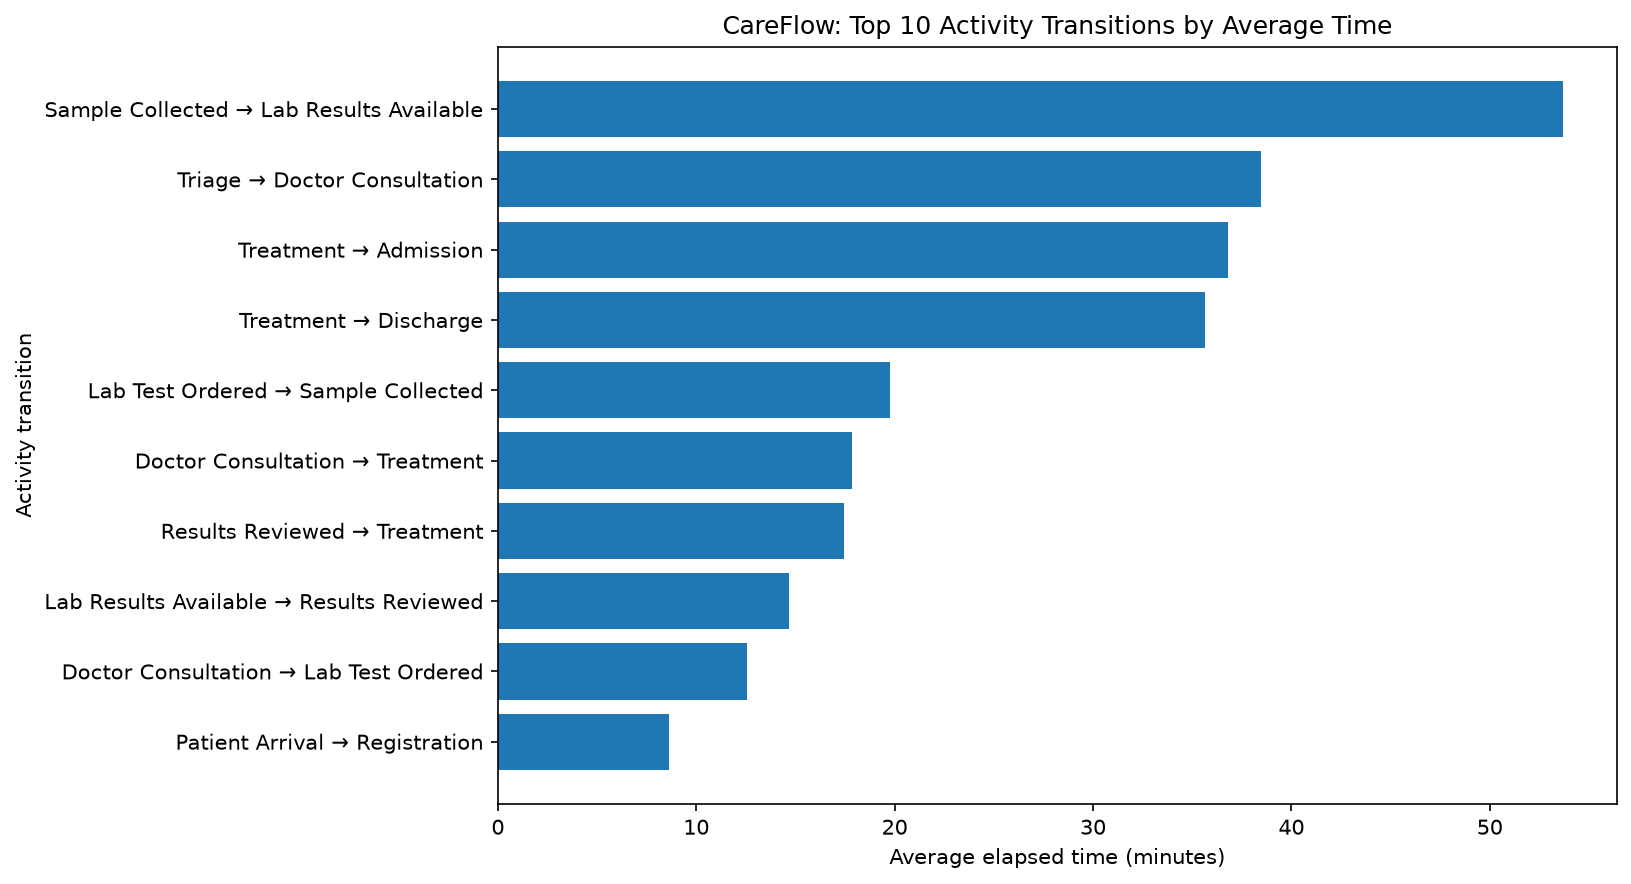
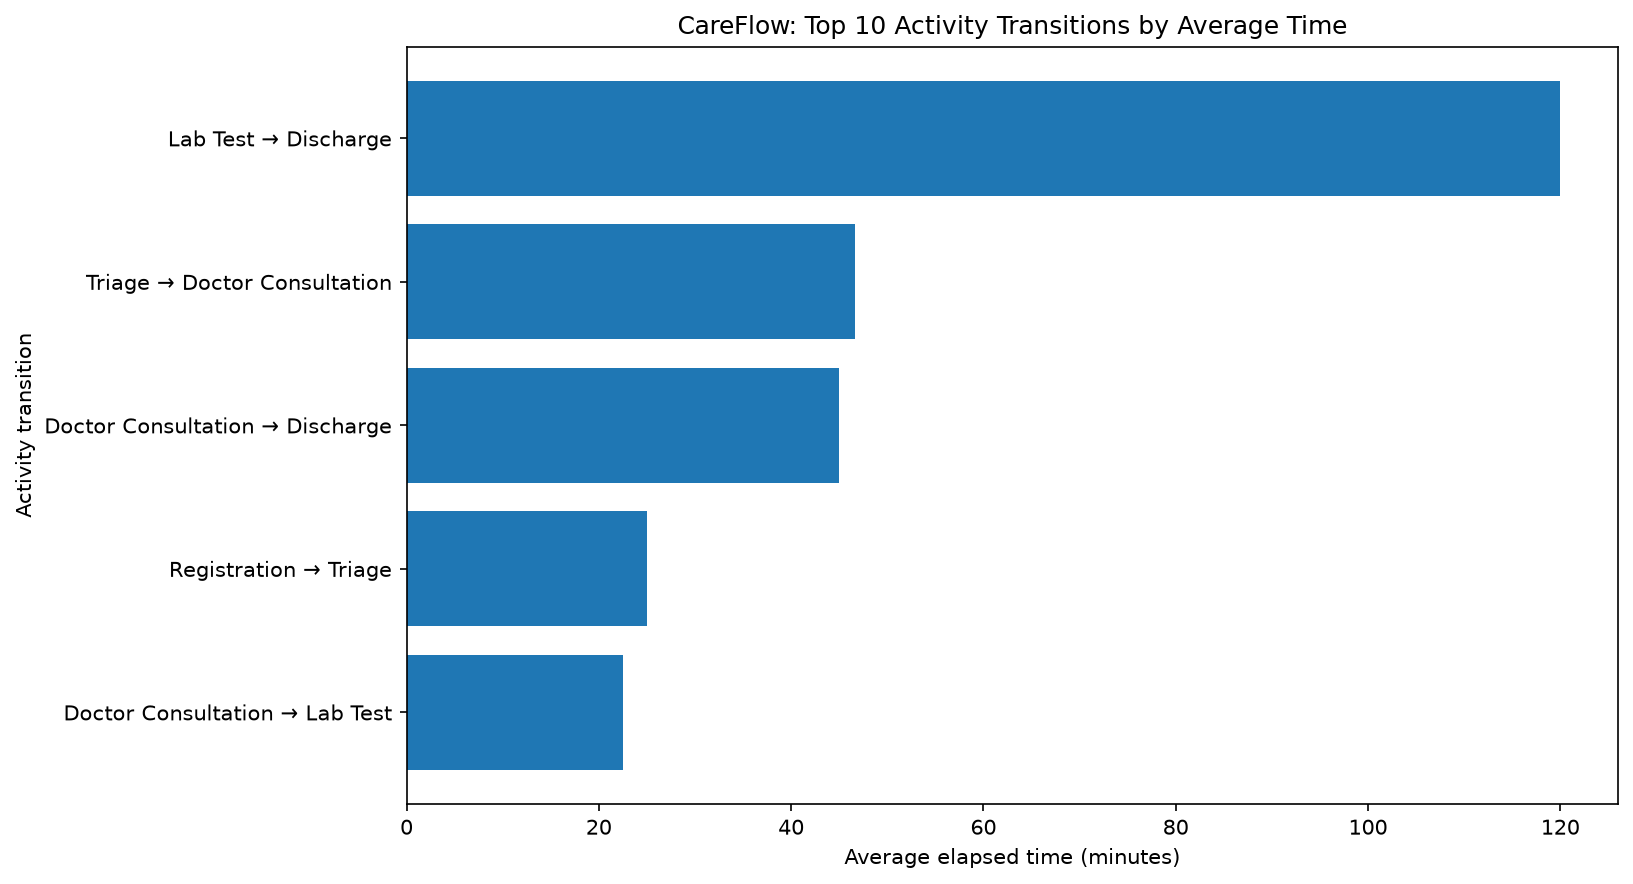
Complete Week 2 patient waiting time analysis

diff --git a/Data/elapsed_time_analysis.py b/Data/elapsed_time_analysis.py
@@ -5,32 +5,36 @@ DATA_DIR = Path(__file__).resolve().parent
 INPUT_FILE = DATA_DIR / "patient_events.csv"
 OUTPUT_FILE = DATA_DIR / "patient_elapsed_times.csv"
 
-# Read the CSV as three columns, even if it has no header row.
-df = pd.read_csv(
-    INPUT_FILE,
-    header=None,
-    names=["patient_id", "activity", "timestamp"]
-)
+# Load the original event log with its correct column names.
+df = pd.read_csv(INPUT_FILE)
 
-# If the file has a header row, remove it from the data.
-if str(df.iloc[0]["patient_id"]).strip().lower() in {
-    "patient_id", "patient", "patientid"
-}:
-    df = df.iloc[1:].copy()
+required_columns = {"case_id", "activity", "timestamp"}
+if not required_columns.issubset(df.columns):
+    raise ValueError(
+        f"Missing required columns: {required_columns - set(df.columns)}"
+    )
 
+# Parse timestamps consistently.
 df["timestamp"] = pd.to_datetime(
-    df["timestamp"], errors="coerce"
+    df["timestamp"],
+    format="%Y-%m-%d %H:%M:%S",
+    errors="coerce"
 )
 
-df = df.dropna(subset=["patient_id", "timestamp"])
-df["patient_id"] = df["patient_id"].astype(str).str.strip()
+# Remove records without a valid case ID or timestamp.
+df["case_id"] = df["case_id"].astype("string").str.strip()
+df["activity"] = df["activity"].astype("string").str.strip()
+df = df.dropna(subset=["case_id", "activity", "timestamp"])
+df = df[
+    df["case_id"].ne("") & df["activity"].ne("")
+].copy()
 
-# Sort events by patient and time.
-df = df.sort_values(["patient_id", "timestamp"])
+# Sort events chronologically for each patient case.
+df = df.sort_values(["case_id", "timestamp"])
 
-# Calculate elapsed time from first event to last event.
+# Calculate total elapsed time per case.
 elapsed = (
-    df.groupby("patient_id")
+    df.groupby("case_id")
     .agg(
         first_event=("timestamp", "min"),
         last_event=("timestamp", "max"),

diff --git a/Data/waiting_time_comparison.py b/Data/waiting_time_comparison.py
@@ -1,0 +1,36 @@
+from pathlib import Path
+import pandas as pd
+import matplotlib.pyplot as plt
+
+DATA_DIR = Path(__file__).resolve().parent
+
+# Load waiting-time summary
+summary = pd.read_csv(DATA_DIR / "waiting_time_summary.csv")
+
+# Select the top 5 transitions by average waiting time
+top = summary.nlargest(5, "average_minutes").copy()
+
+# Create readable labels
+top["transition"] = (
+    top["previous_activity"].astype(str)
+    + " -> "
+    + top["activity"].astype(str)
+)
+
+# Sort for a horizontal bar chart
+top = top.sort_values("average_minutes")
+
+# Create second chart
+plt.figure(figsize=(11, 6))
+plt.barh(top["transition"], top["average_minutes"])
+plt.xlabel("Average elapsed time (minutes)")
+plt.ylabel("Patient activity transition")
+plt.title("CareFlow: Top 5 Patient Waiting-Time Bottlenecks")
+plt.tight_layout()
+
+# Save chart
+plt.tight_layout()
+plt.savefig(DATA_DIR / "waiting_time_comparison.png", dpi=300, bbox_inches="tight")
+plt.show()
+
+print(f"Second chart saved to: {DATA_DIR / 'waiting_time_comparison.png'}")

diff --git a/Data/patient_pathway_findings.md b/Data/patient_pathway_findings.md
@@ -1,90 +1,87 @@
-CareFlow Patient Pathway Findings
+CareFlow – Patient Pathway Findings
 
 1. Project Overview
 
-The CareFlow project analyzes patient journey event timestamps to understand elapsed times, activity transitions, and potential workflow bottlenecks.
+CareFlow is a Python-based project that analyzes patient event logs to understand patient journey durations, activity transitions, and potential workflow bottlenecks.
 
-2. Key Findings
+The Week 2 analysis uses a small synthetic dataset of patient activities and timestamps.
 
-- The longest average activity transition is Sample Collected → Lab Results Available, at approximately 53.71 minutes.
-- Triage → Doctor Consultation takes approximately 38.45 minutes on average.
-- Treatment → Admission takes approximately 36.81 minutes on average.
-- Treatment → Discharge takes approximately 35.63 minutes on average.
+2. Dataset and Validation
 
-3. Data Validation
+- Total event records: 13
+- Patient cases analyzed: 3
+- Required columns: case_id, activity, timestamp
+- Missing values detected: 0
+- Duplicate rows detected: 0
+- Invalid timestamps detected: 0
+- Duplicate events detected: 0
 
-- Invalid timestamps detected: 0.
-- Duplicate events detected: 0.
-- The current analysis uses a small synthetic dataset.
+The event log passed the validation checks performed by the current validation script.
 
-4. Limitations
+3. Patient Elapsed-Time Analysis
 
-The dataset contains only three patient journeys, so these findings are preliminary. Elapsed time between events does not necessarily represent staff waiting time or operational delay.
+The elapsed-time analysis calculates the time between each patient's first recorded event and last recorded event.
 
-5. Recommendations
+Patient Case| Events| Elapsed Time
+P001| 5| 120 minutes
+P002| 4| 155 minutes
+P003| 4| 75 minutes
 
-- Investigate laboratory processing time.
-- Review the triage-to-consultation workflow.
-- Analyze a larger dataset before drawing operational conclusions.
+Summary
 
-6. Conclusion
+- Average elapsed time: 116.67 minutes
+- Median elapsed time: 120 minutes
+- Shortest journey: 75 minutes
+- Longest journey: 155 minutes
+- Difference between longest and shortest journeys: 80 minutes
 
-The analysis identifies transitions that may deserve further investigation. Additional data is needed to validate these findings and recommend workflow changes.
+P002 had the longest recorded journey, while P003 had the shortest.
 
-# CareFlow: Patient Pathway Findings
+4. Activity Transition Analysis
 
-## Bottleneck Analysis
+The waiting-time comparison identified the following transitions:
 
-The analysis identifies activity transitions with
-high average elapsed times in the synthetic patient event log.
+Activity Transition| Average Minutes| Median Minutes| Maximum Minutes| Cases
+Lab Test → Discharge| 120.00| 120| 150| 2
+Triage → Doctor Consultation| 46.67| 40| 70| 3
+Doctor Consultation → Discharge| 45.00| 45| 45| 1
+Registration → Triage| 25.00| 20| 40| 3
+Doctor Consultation → Lab Test| 22.50| 22.5| 30| 2
 
-The longest visible transition is
-Sample Collected to Lab Results Available,
-with an average elapsed time of approximately 53.71 minutes.
+Lab Test → Discharge has the highest observed average transition time at 120 minutes.
 
-Other transitions with high elapsed times include
-Triage to Doctor Consultation and
-Treatment to Admission.
+Triage → Doctor Consultation also warrants investigation, with an average transition time of approximately 46.67 minutes.
 
-## Recommendation
+These transition times represent elapsed time between recorded activities and do not necessarily measure actual waiting time.
 
-Investigate delays in laboratory result processing,
-doctor consultation, and patient admission.
-These findings are based on synthetic data and
-require validation against real hospital data.
+5. Visualizations and Output Files
 
-# CareFlow – Patient Pathway Findings
+The following project outputs have been generated:
 
-## 1. Project Overview
-CareFlow analyzes synthetic hospital patient event logs
-to identify delays in patient pathways.
+- "waiting_time_comparison.png" – comparison of activity transition times
+- "waiting_time_summary.csv" – summary statistics for activity transitions
+- "patient_elapsed_times.csv" – elapsed-time results for individual patient cases
+- "waiting_time_findings.txt" – waiting-time findings report
 
-## 2. Process Discovery
-- Patient cases: 500
-- Total events: 4,420
-- Activities: 11
+6. Recommendations
 
-## 3. Bottleneck Analysis
-The waiting-time analysis identifies transitions
-with high average elapsed times.
+1. Investigate the Lab Test → Discharge transition to understand the time between these recorded activities.
+2. Review the Triage → Doctor Consultation transition for possible workflow delays.
+3. Check timestamp accuracy and event ordering.
+4. Collect additional patient cases to improve the reliability of the analysis.
+5. Compare total journey durations with activity-level transition times.
+6. Integrate the verified results into the CareFlow dashboard.
 
-The longest transition visible in the current
-summary is Sample Collected → Lab Results Available,
-with an average of approximately 53.71 minutes.
+7. Limitations
 
-Other transitions with high elapsed times include
-Triage → Doctor Consultation and
-Treatment → Admission.
+The current dataset contains only three patient cases and is synthetic. Some activity transitions are based on only one or two cases.
 
-## 4. Recommendations
-- Investigate delays in laboratory result processing.
-- Review the time taken for doctor consultations.
-- Analyze delays in admission and discharge processes.
+The results are preliminary and should not be used to draw conclusions about actual hospital performance. Further analysis with a larger, representative dataset is required.
 
-## 5. Conclusion
-CareFlow demonstrates how process mining and
-waiting-time analysis can help identify potential
-bottlenecks in a simulated hospital workflow.
+8. Week 2 Conclusion
 
-Note: These findings are based on synthetic data,
-not actual hospital records.
+The CareFlow Week 2 work successfully validates the event log, calculates patient elapsed times, compares activity transitions, generates visualizations, and documents potential workflow bottlenecks.
+
+The results demonstrate how Python and process-mining techniques can support the analysis of patient pathways. Further validation and a larger dataset will be needed to establish reliable operational insights.
+
+Project Status: Week 2 elapsed-time analysis and waiting-time comparison completed.
